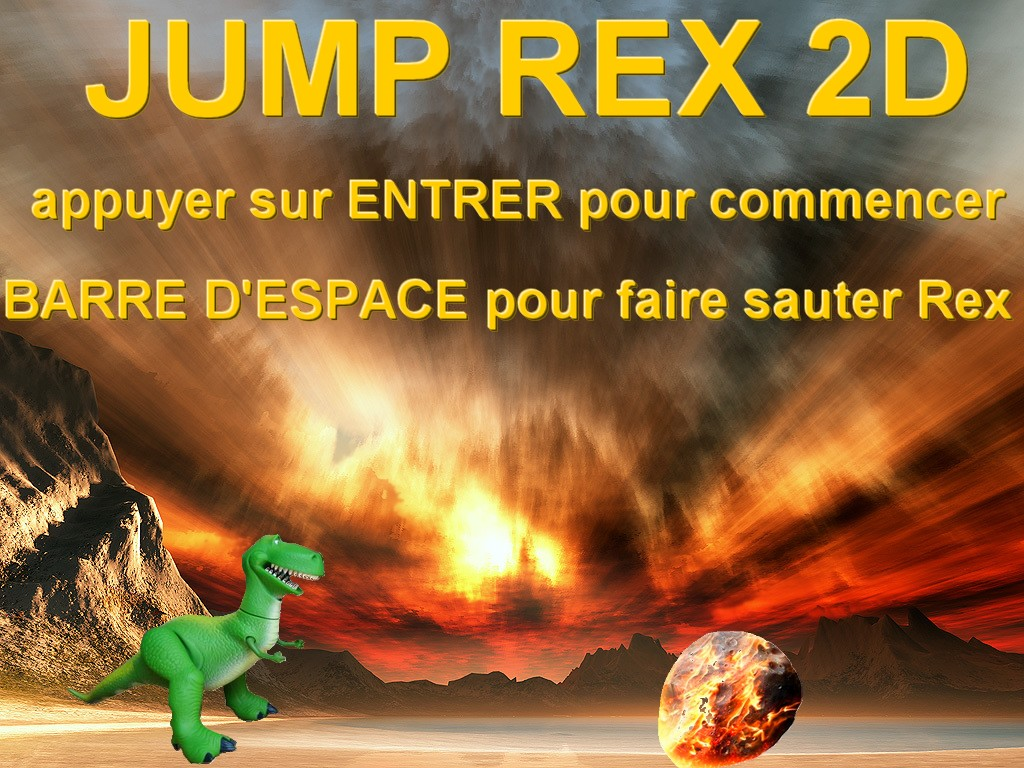
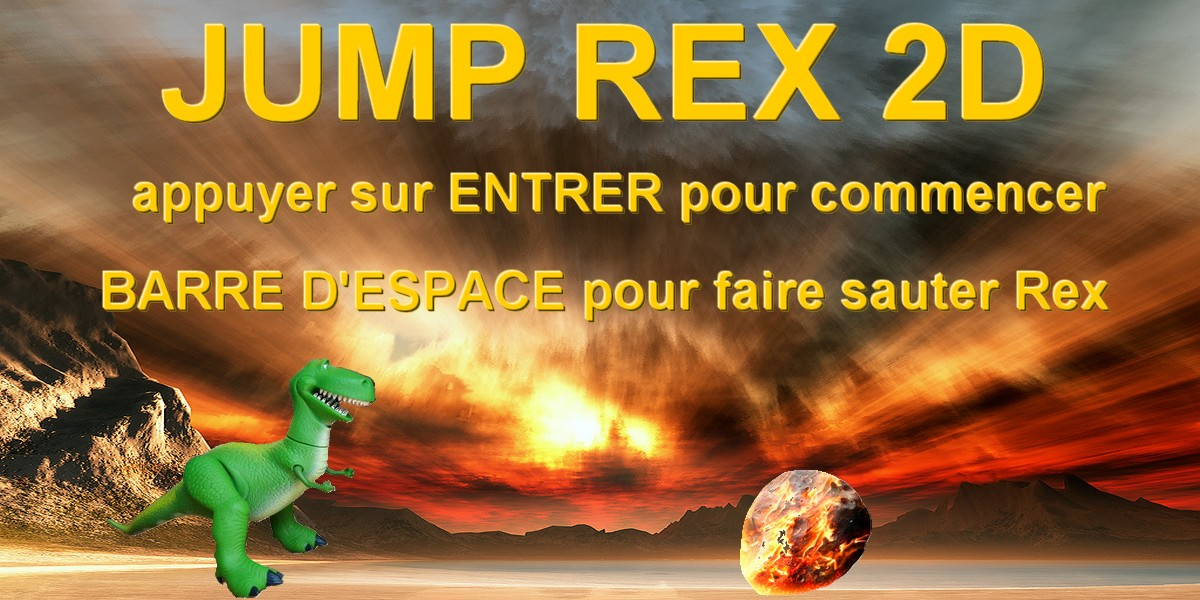
menu

diff --git a/survival.py b/survival.py
@@ -120,8 +120,8 @@ def main(): #gere tous jeu + acceuil = global mais en mieux
     icone = pg.image.load("icone.jpg")
 
     # Fenêtre de 500 par 400 pixels.
-    largeur = 500
-    hauteur = 400
+    largeur = 1200
+    hauteur = 600
     taille_affichage = [largeur, hauteur]
 
     screen = pg.display.set_mode(taille_affichage)
